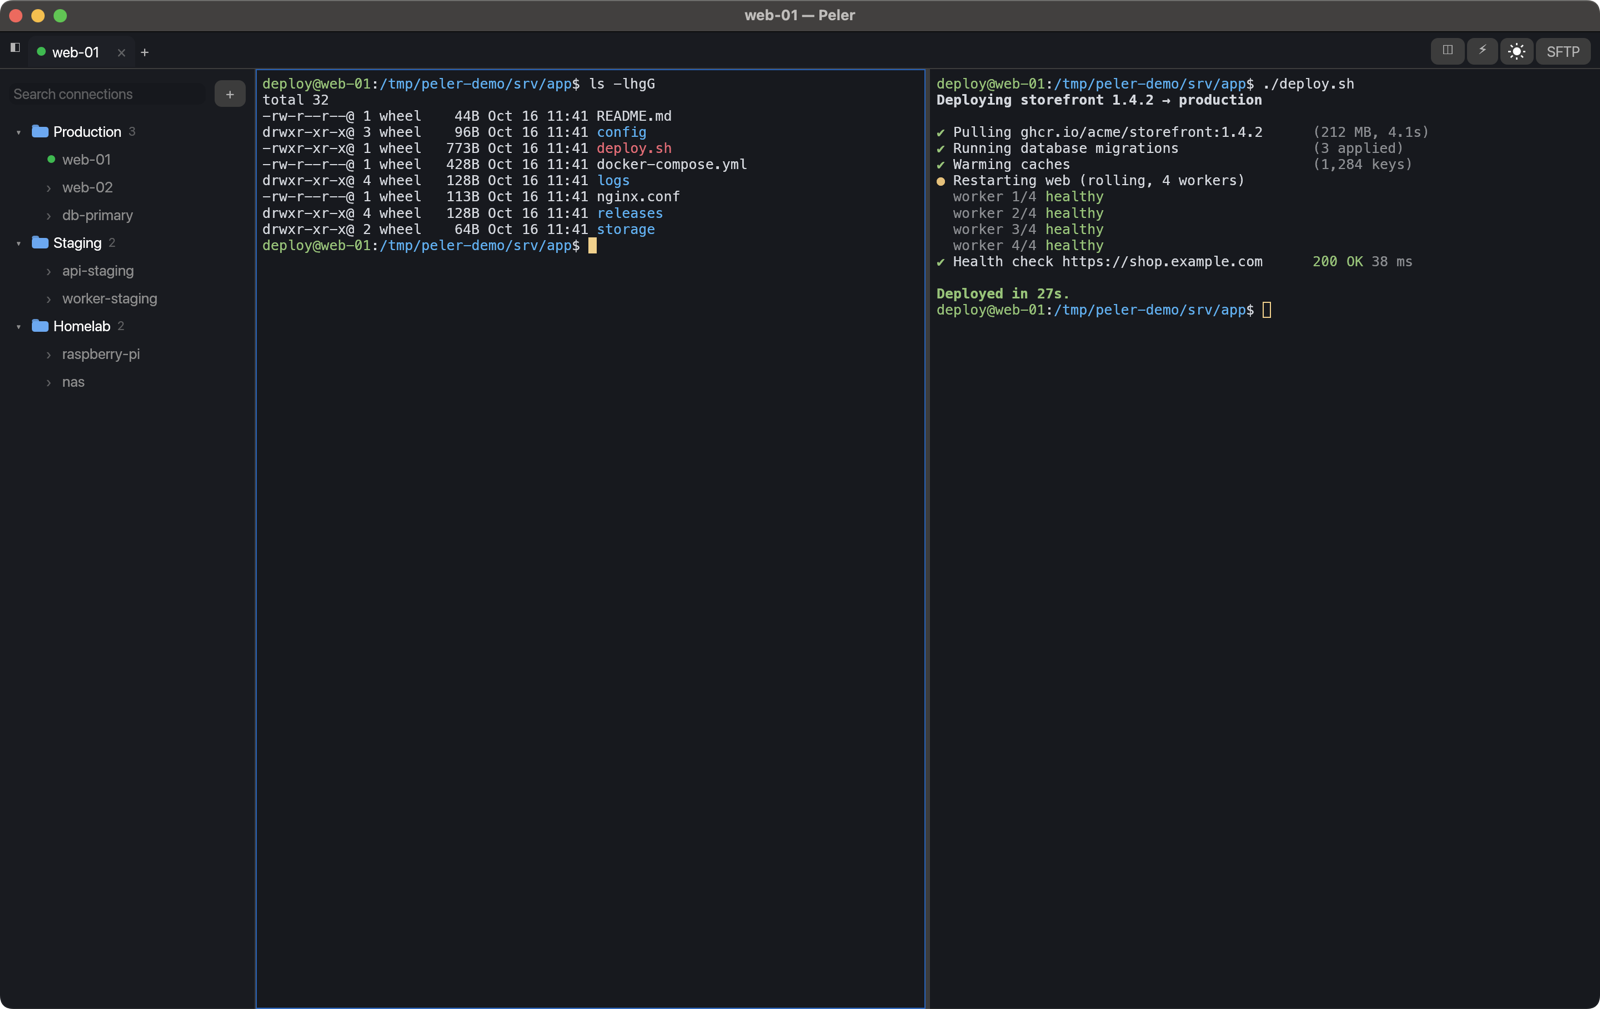
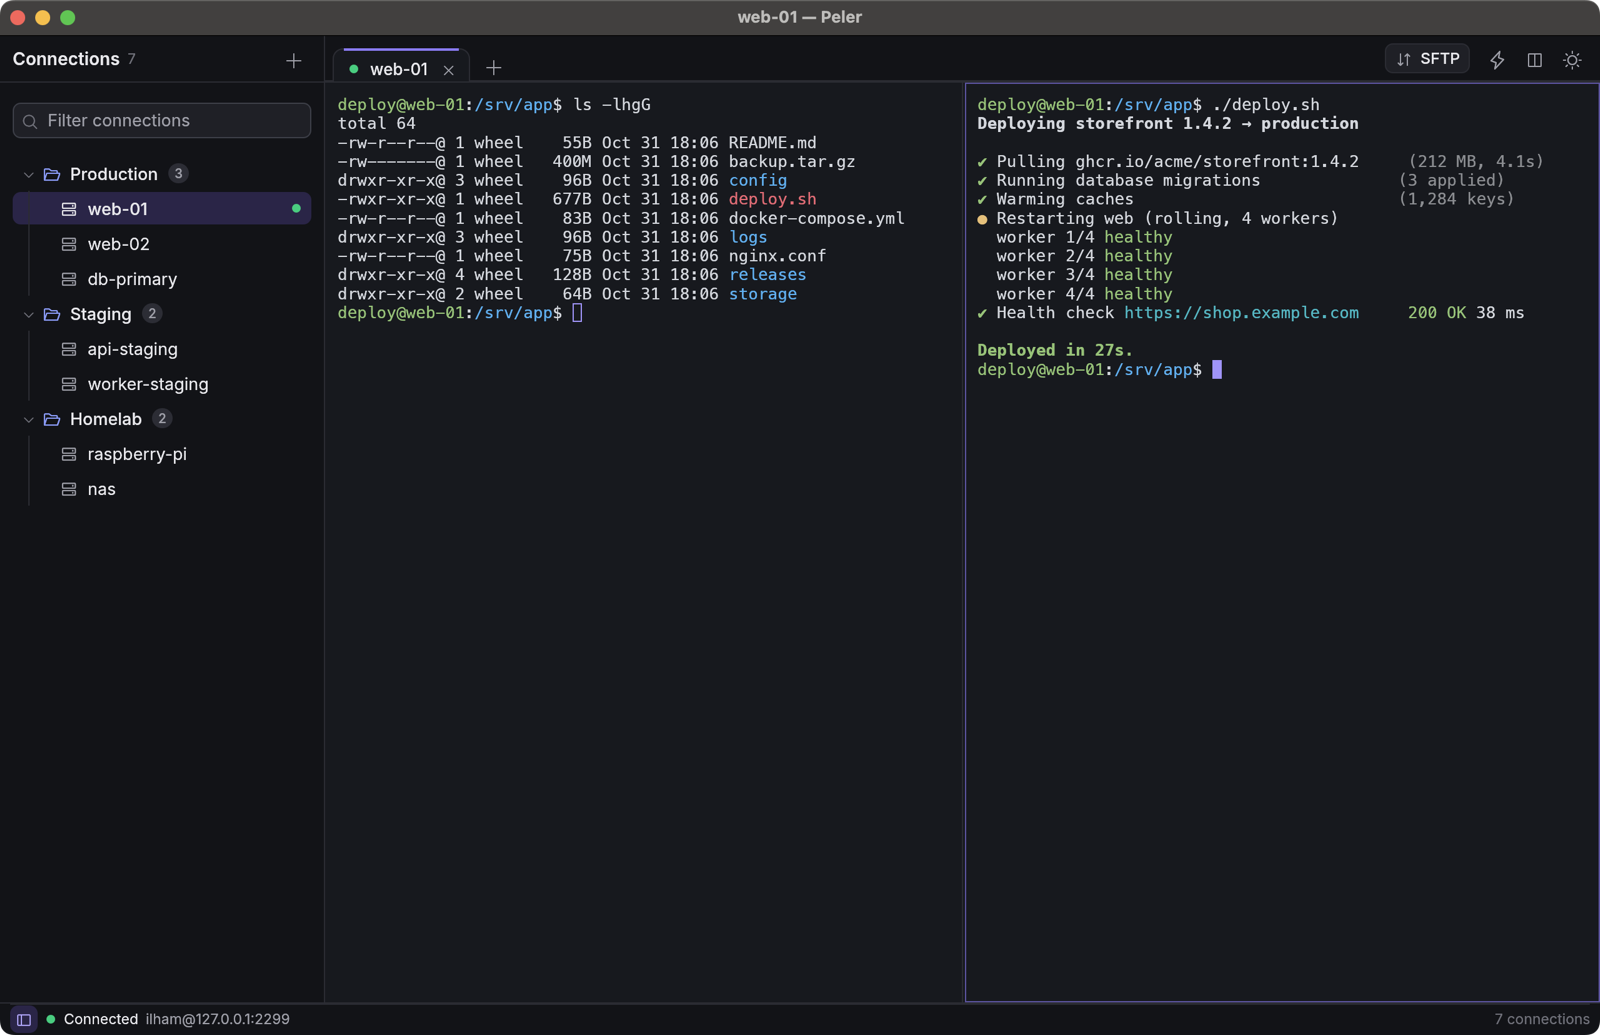
Update the README and screenshots for the new design

diff --git a/README.id.md b/README.id.md
@@ -119,7 +119,7 @@ Password yang tersimpan adalah item Keychain dengan service `peler`; hapus lewat
 - **Jump host** (`ssh -J`): sambung ke server lewat koneksi tersimpan lain, juga beberapa
   berturut-turut. Setiap hop memeriksa host key-nya sendiri dan login dengan metodenya sendiri.
 - **Port forwarding** per koneksi, aktif saat tersambung: lokal (`-L`), remote (`-R`), dan proxy
-  SOCKS (`-D`). Toolbar menampilkan forward-nya (⇄) dan memberi tahu kalau port sudah dipakai.
+  SOCKS (`-D`). Status bar menampilkan forward-nya dan memberi tahu kalau port sudah dipakai.
 - Grup bertingkat, tertutup saat Peler dibuka; drag and drop untuk mengurutkan atau memindah grup.
 - Pencarian fuzzy pada nama, host, user, tag, dan grup. Tekan Enter untuk konek.
 - `⌘K` membuka palet perintah. Mengetik `user@host:port` di sana (IPv6 sebagai `[::1]:22`) langsung
@@ -144,15 +144,15 @@ Password yang tersimpan adalah item Keychain dengan service `peler`; hapus lewat
   tab dan mempertahankan scrollback.
 - Option sebagai Meta (opsional) untuk readline dan Emacs. Bekerja dengan layout keyboard apa pun,
   dan hanya aktif saat terminal yang memegang keyboard.
-- Quick commands (⚡), sembilan skema warna, dan pilihan font (atau file font sendiri).
+- Quick commands (tombol petir), sembilan skema warna, dan pilihan font (atau file font sendiri).
 
 ### SFTP (`⇧⌘F`)
 
-![SFTP dua panel dengan toolbar berlabel dan popup transfer](docs/screenshots/sftp.png)
+![SFTP dua panel dengan grup tombol toolbar dan popup transfer](docs/screenshots/sftp.png)
 
-- Daftar lokal dan remote berdampingan, di atas koneksi SSH yang sama. Tiap sisi punya toolbar
-  berlabel (**Naik**, **Beranda**, **Muat ulang**, **Folder baru**, **Tersembunyi**) dan kolom path
-  selebar panel; daftar file memenuhi panel sampai ke bawah.
+- Daftar lokal dan remote berdampingan, di atas koneksi SSH yang sama. Tiap sisi punya dua grup
+  tombol (**Naik**, **Beranda**, **Muat ulang**, lalu **Folder baru** dan **Tampilkan file
+  tersembunyi**) dan kolom path selebar panel; daftar file memenuhi panel sampai ke bawah.
 - **Upload, download, ganti nama, hapus (rekursif), folder baru, chmod.**
 - **Banyak file sekaligus**: pilih dengan ⌘-klik, ⇧-klik, atau `⌘A` saat kursor di atas daftar, lalu
   drag antar daftar, drop file dari Finder, atau pakai menu klik-kanan. **Unggah…** di sisi remote
@@ -163,8 +163,8 @@ Password yang tersimpan adalah item Keychain dengan service `peler`; hapus lewat
   Anda. Server harus mengizinkan sudo untuk user Anda. Klik **Root** lagi untuk kembali.
 - **Transfer yang bisa dipantau**: popup mengambang (bisa disembunyikan atau ditutup) menampilkan
   seluruh batch: file selesai, persen, ukuran, kecepatan, dan sisa waktu, dengan progres tiap baris,
-  dan error bila ada. Saat panel disembunyikan, tab menampilkan cincin progres dan toolbar
-  menampilkan **SFTP ⬆ 45%**. Notifikasi muncul saat semuanya selesai atau ada yang gagal.
+  dan error bila ada. Saat panel disembunyikan, tab menampilkan cincin progres dan tombol SFTP
+  menampilkan **SFTP 45%**. Notifikasi muncul saat semuanya selesai atau ada yang gagal.
 - File ditulis dengan nama sementara, lalu di-rename ke nama aslinya setelah lengkap. Membatalkan,
   menutup tab, atau quit akan menghapus file setengah jadi, termasuk di server. Ukuran diverifikasi,
   dan permission serta bit executable dipertahankan.
@@ -350,7 +350,8 @@ src/
   ssh/                koneksi russh, autentikasi, known_hosts, shell
   sftp/               operasi remote, transfer latar belakang, muat/simpan editor
   term/               inti terminal (alacritty_terminal), encoding key/mouse, skema warna
-  ui/                 widget terminal, sidebar, editor, dialog, panel SFTP, menu, font
+  ui/                 widget terminal, sidebar, editor, dialog, panel SFTP, menu, font,
+                      token desain (style.rs) dan komponen bersama (kit.rs)
   crypto.rs           enkripsi export
   secrets.rs          Keychain
   i18n.rs             teks Inggris/Indonesia (ada tes yang memastikan semua teks UI diterjemahkan)
@@ -358,7 +359,7 @@ src/
   netwatch.rs         mendeteksi perubahan jaringan (VPN, Wi-Fi, sleep) supaya koneksi dicek
   update.rs           cek update, unduh, verifikasi, dan pasang
 tests/                tes integrasi (sshd lokal, server in-process, SFTP 1 GiB)
-scripts/              package.sh, release.sh, install.sh, dev-sshd.sh
+scripts/              package.sh, release.sh, install.sh, dev-sshd.sh, build-fonts.py
 vendor/ssh-key/       ssh-key dengan perbaikan untuk sebagian kunci ECDSA (lihat PELER-PATCH.md di sana)
 ```
 

diff --git a/README.md b/README.md
@@ -116,7 +116,7 @@ Saved passwords are Keychain items with the service name `peler`; remove them in
 - **Jump hosts** (`ssh -J`): reach a server through another saved connection, also several in a
   row. Each hop checks its own host key and logs in with its own method.
 - **Port forwarding** per connection, started when it connects: local (`-L`), remote (`-R`) and a
-  SOCKS proxy (`-D`). The toolbar shows the forwards (⇄) and says when a port is already in use.
+  SOCKS proxy (`-D`). The status bar shows the forwards and says when a port is already in use.
 - Nested groups, closed when Peler opens; drag and drop to reorder or regroup.
 - Fuzzy search over name, host, user, tags and group. Press Enter to connect.
 - `⌘K` opens a command palette. Typing `user@host:port` there (IPv6 as `[::1]:22`) connects without
@@ -142,15 +142,16 @@ Saved passwords are Keychain items with the service name `peler`; remove them in
   scrollback.
 - Option as Meta (optional) for readline and Emacs. It works with any keyboard layout, and only
   while a terminal has focus.
-- Quick commands (⚡), nine colour schemes, and a choice of fonts (or your own font file).
+- Quick commands (the lightning button), nine colour schemes, and a choice of fonts (or your own
+  font file).
 
 ### SFTP (`⇧⌘F`)
 
-![Dual-pane SFTP with labelled toolbars and the transfers popup](docs/screenshots/sftp.png)
+![Dual-pane SFTP with grouped toolbar buttons and the transfers popup](docs/screenshots/sftp.png)
 
-- Local and remote lists side by side, over the same SSH connection. Each side has a labelled
-  toolbar (**Up**, **Home**, **Refresh**, **New folder**, **Hidden**) and a full-width path field;
-  the lists run to the bottom of the panel.
+- Local and remote lists side by side, over the same SSH connection. Each side has two button
+  groups (**Up**, **Home**, **Refresh**, then **New folder** and **Show hidden files**) and a
+  full-width path field; the lists run to the bottom of the panel.
 - **Upload, download, rename, delete (recursive), new folder, chmod.**
 - **Many files at once**: select with ⌘-click, ⇧-click or `⌘A` over a list, then drag between the
   lists, drop files from Finder, or use the right-click menu. **Upload…** on the remote side opens
@@ -161,7 +162,7 @@ Saved passwords are Keychain items with the service name `peler`; remove them in
   sudo for your user. Click **Root** again to go back.
 - **Transfers you can follow**: a floating popup (which you can hide or close) shows the whole batch:
   files done, percent, size, speed and time left, with each row's own progress, and any errors. While
-  the panel is hidden, the tab shows a progress ring and the toolbar shows **SFTP ⬆ 45%**. A
+  the panel is hidden, the tab shows a progress ring and the SFTP button shows **SFTP 45%**. A
   notification tells you when everything has finished or something failed.
 - Files are written under a temporary name and renamed into place when complete. Cancelling, closing
   the tab or quitting removes partial files, on the server too. Sizes are verified, and permissions
@@ -347,7 +348,8 @@ src/
   ssh/                russh connection, authentication, known_hosts, shells
   sftp/               remote operations, background transfers, editor load/save
   term/               terminal core (alacritty_terminal), key/mouse encoding, colour schemes
-  ui/                 terminal widget, sidebar, editors, dialogs, SFTP panel, menu, fonts
+  ui/                 terminal widget, sidebar, editors, dialogs, SFTP panel, menu, fonts,
+                      design tokens (style.rs) and shared components (kit.rs)
   crypto.rs           export encryption
   secrets.rs          Keychain
   i18n.rs             English/Indonesian strings (a test checks every UI string is translated)
@@ -355,7 +357,7 @@ src/
   netwatch.rs         notices network changes (VPN, Wi-Fi, sleep) so connections get checked
   update.rs           update check, download, verification and install
 tests/                integration tests (local sshd, in-process server, 1 GiB SFTP)
-scripts/              package.sh, release.sh, install.sh, dev-sshd.sh
+scripts/              package.sh, release.sh, install.sh, dev-sshd.sh, build-fonts.py
 vendor/ssh-key/       ssh-key with a fix for some ECDSA keys (see PELER-PATCH.md there)
 ```
 
